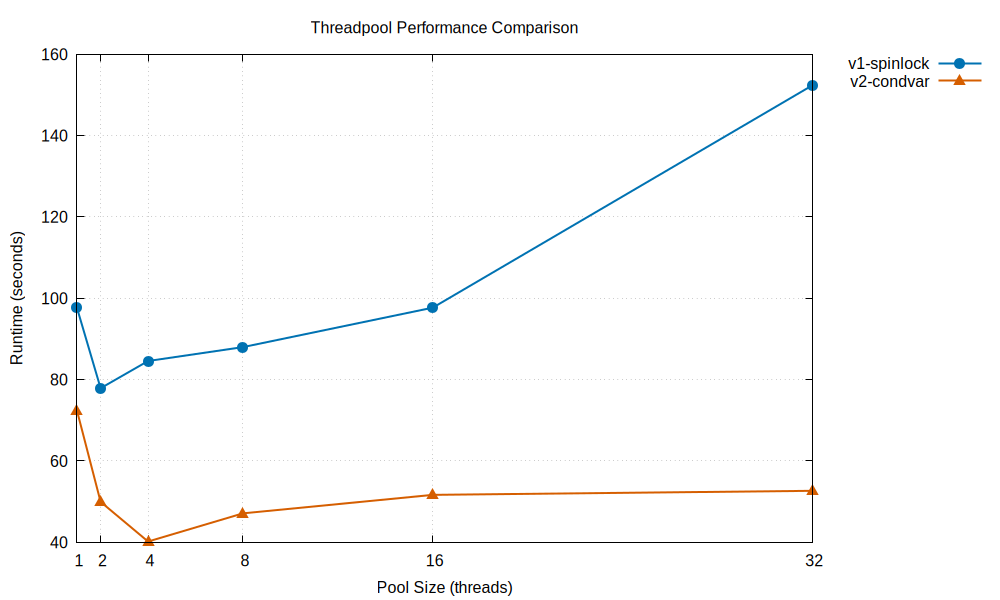
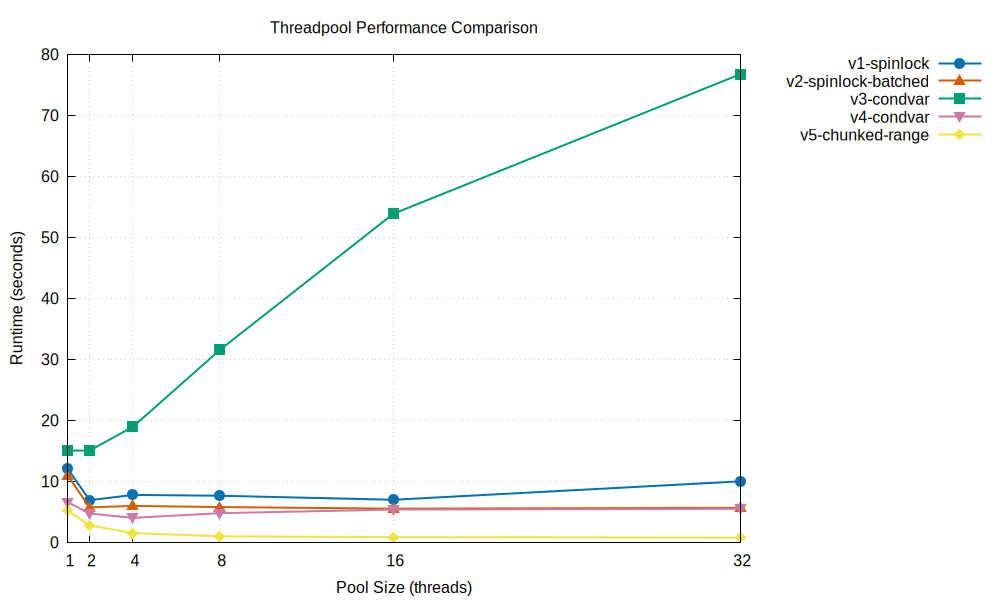
more variants and chunked range

diff --git a/src/bin/bench_v5_chunked_range.rs b/src/bin/bench_v5_chunked_range.rs
@@ -1,5 +1,6 @@
 use rust_threadpool::bench::{TASK_COUNT, collatz};
-use rust_threadpool::pools::v1_spinlock;
+use rust_threadpool::pools::v5_chunked_range;
+use std::sync::Arc;
 
 fn main() {
     use std::time::Instant;
@@ -9,14 +10,16 @@ fn main() {
         .unwrap_or("1".to_string())
         .parse()
         .unwrap();
-    let pool = v1_spinlock::Pool::new(pool_size);
+    let pool = v5_chunked_range::Pool::new(pool_size);
 
     let start = Instant::now();
-    for i in 0..TASK_COUNT {
-        pool.submit(move || {
+    pool.submit_iter(
+        Arc::new(move |i| {
             collatz(i);
-        });
-    }
+        }),
+        0..TASK_COUNT,
+        TASK_COUNT as usize / pool_size,
+    );
 
     pool.join_all();
     let elapsed = start.elapsed();
@@ -24,7 +27,7 @@ fn main() {
     let per_second = TASK_COUNT as f64 / (elapsed.as_secs_f64() * 1000.0);
 
     println!(
-        "[V1-spinlock T={}] Processed {} numbers in {:.3}s ({:.2} k-numbers/sec)",
+        "[V5-chunked-range T={}] Processed {} numbers in {:.3}s ({:.2} k-numbers/sec)",
         pool_size,
         TASK_COUNT,
         elapsed.as_secs_f64(),

diff --git a/src/bin/bench_v2_spinlock_batched.rs b/src/bin/bench_v2_spinlock_batched.rs
@@ -1,5 +1,6 @@
 use rust_threadpool::bench::{TASK_COUNT, collatz};
-use rust_threadpool::pools::v1_spinlock;
+use rust_threadpool::pools::v2_spinlock_batched;
+use std::sync::Arc;
 
 fn main() {
     use std::time::Instant;
@@ -9,14 +10,15 @@ fn main() {
         .unwrap_or("1".to_string())
         .parse()
         .unwrap();
-    let pool = v1_spinlock::Pool::new(pool_size);
+    let pool = v2_spinlock_batched::Pool::new(pool_size);
 
     let start = Instant::now();
-    for i in 0..TASK_COUNT {
-        pool.submit(move || {
+    pool.submit_iter(
+        Arc::new(move |i| {
             collatz(i);
-        });
-    }
+        }),
+        0..TASK_COUNT,
+    );
 
     pool.join_all();
     let elapsed = start.elapsed();
@@ -24,7 +26,7 @@ fn main() {
     let per_second = TASK_COUNT as f64 / (elapsed.as_secs_f64() * 1000.0);
 
     println!(
-        "[V1-spinlock T={}] Processed {} numbers in {:.3}s ({:.2} k-numbers/sec)",
+        "[V2-spinlock-batched T={}] Processed {} numbers in {:.3}s ({:.2} k-numbers/sec)",
         pool_size,
         TASK_COUNT,
         elapsed.as_secs_f64(),

diff --git a/src/bin/bench_v4_condvar.rs b/src/bin/bench_v4_condvar.rs
@@ -1,5 +1,6 @@
 use rust_threadpool::bench::{TASK_COUNT, collatz};
-use rust_threadpool::pools::v1_spinlock;
+use rust_threadpool::pools::v3_condvar;
+use std::sync::Arc;
 
 fn main() {
     use std::time::Instant;
@@ -9,14 +10,15 @@ fn main() {
         .unwrap_or("1".to_string())
         .parse()
         .unwrap();
-    let pool = v1_spinlock::Pool::new(pool_size);
+    let pool = v3_condvar::Pool::new(pool_size);
 
     let start = Instant::now();
-    for i in 0..TASK_COUNT {
-        pool.submit(move || {
+    pool.submit_iter(
+        Arc::new(move |i| {
             collatz(i);
-        });
-    }
+        }),
+        0..TASK_COUNT,
+    );
 
     pool.join_all();
     let elapsed = start.elapsed();
@@ -24,7 +26,7 @@ fn main() {
     let per_second = TASK_COUNT as f64 / (elapsed.as_secs_f64() * 1000.0);
 
     println!(
-        "[V1-spinlock T={}] Processed {} numbers in {:.3}s ({:.2} k-numbers/sec)",
+        "[V4-condvar-iter T={}] Processed {} numbers in {:.3}s ({:.2} k-numbers/sec)",
         pool_size,
         TASK_COUNT,
         elapsed.as_secs_f64(),

diff --git a/src/pools/v5_chunked_range.rs b/src/pools/v5_chunked_range.rs
@@ -2,6 +2,8 @@ use std::sync::atomic::{AtomicBool, AtomicU32, Ordering};
 use std::sync::{Arc, Condvar, Mutex};
 use std::thread::{self, JoinHandle};
 
+use itertools::Itertools;
+
 struct Task {
     pub func: Box<dyn FnOnce() -> () + Send>,
 }
@@ -71,16 +73,23 @@ impl Pool {
         &self,
         func: Arc<F>,
         iter: impl IntoIterator<Item = T>,
+        chunk_size: usize,
     ) {
         let mut queue = self.queue.lock().unwrap();
-        for i in iter {
+        for chunk in &iter.into_iter().chunks(chunk_size) {
             let func = Arc::clone(&func);
+            let batch: Vec<T> = chunk.collect();
             queue.push(Task {
-                func: Box::new(move || func(i)),
+                func: Box::new(move || {
+                    for item in batch {
+                        func(item);
+                    }
+                }),
             });
         }
         self.condvar.notify_all();
     }
+
     // waits for all tasks to finish, and then joins all threads
     pub fn join_all(self) {
         // wait for all tasks to finish

diff --git a/src/bin/bench_v3_condvar.rs b/src/bin/bench_v3_condvar.rs
@@ -1,5 +1,5 @@
 use rust_threadpool::bench::{TASK_COUNT, collatz};
-use rust_threadpool::pools::v1_spinlock;
+use rust_threadpool::pools::v3_condvar;
 
 fn main() {
     use std::time::Instant;
@@ -9,7 +9,7 @@ fn main() {
         .unwrap_or("1".to_string())
         .parse()
         .unwrap();
-    let pool = v1_spinlock::Pool::new(pool_size);
+    let pool = v3_condvar::Pool::new(pool_size);
 
     let start = Instant::now();
     for i in 0..TASK_COUNT {
@@ -24,7 +24,7 @@ fn main() {
     let per_second = TASK_COUNT as f64 / (elapsed.as_secs_f64() * 1000.0);
 
     println!(
-        "[V1-spinlock T={}] Processed {} numbers in {:.3}s ({:.2} k-numbers/sec)",
+        "[V3-condvar T={}] Processed {} numbers in {:.3}s ({:.2} k-numbers/sec)",
         pool_size,
         TASK_COUNT,
         elapsed.as_secs_f64(),

diff --git a/src/pools/v2_spinlock_batched.rs b/src/pools/v2_spinlock_batched.rs
@@ -62,6 +62,21 @@ impl Pool {
         });
     }
 
+    // publishes a new task per item in the iterator
+    pub fn submit_iter<F: Fn(T) + Send + Sync + 'static, T: Send + 'static>(
+        &self,
+        func: Arc<F>,
+        iter: impl IntoIterator<Item = T>,
+    ) {
+        let mut queue = self.queue.lock().unwrap();
+        for i in iter {
+            let func = Arc::clone(&func);
+            queue.push(Task {
+                func: Box::new(move || func(i)),
+            });
+        }
+    }
+
     // waits for all tasks to finish, and then joins all threads
     pub fn join_all(self) {
         // wait for all tasks to finish

diff --git a/src/bench.rs b/src/bench.rs
@@ -1,0 +1,22 @@
+pub const TASK_COUNT: u64 = 50_000_000;
+pub const PRINT_INTERVAL: u64 = 333333;
+
+pub fn collatz(mut n: u64) {
+    if n == 0 {
+        return;
+    }
+    let original = n;
+    let mut steps: u32 = 0;
+    while n != 1 {
+        if n % 2 == 0 {
+            n /= 2;
+        } else {
+            n = 3 * n + 1;
+        }
+        steps += 1;
+    }
+    // don't print everything, we want to emulate a compute-heavy task
+    if original % PRINT_INTERVAL == 0 {
+        print!("{original} took {steps} steps to converge\n");
+    }
+}

diff --git a/src/pools/mod.rs b/src/pools/mod.rs
@@ -1,2 +1,4 @@
 pub mod v1_spinlock;
-pub mod v2_condvar;
+pub mod v2_spinlock_batched;
+pub mod v3_condvar;
+pub mod v5_chunked_range;

diff --git a/src/lib.rs b/src/lib.rs
@@ -1,1 +1,2 @@
+pub mod bench;
 pub mod pools;
